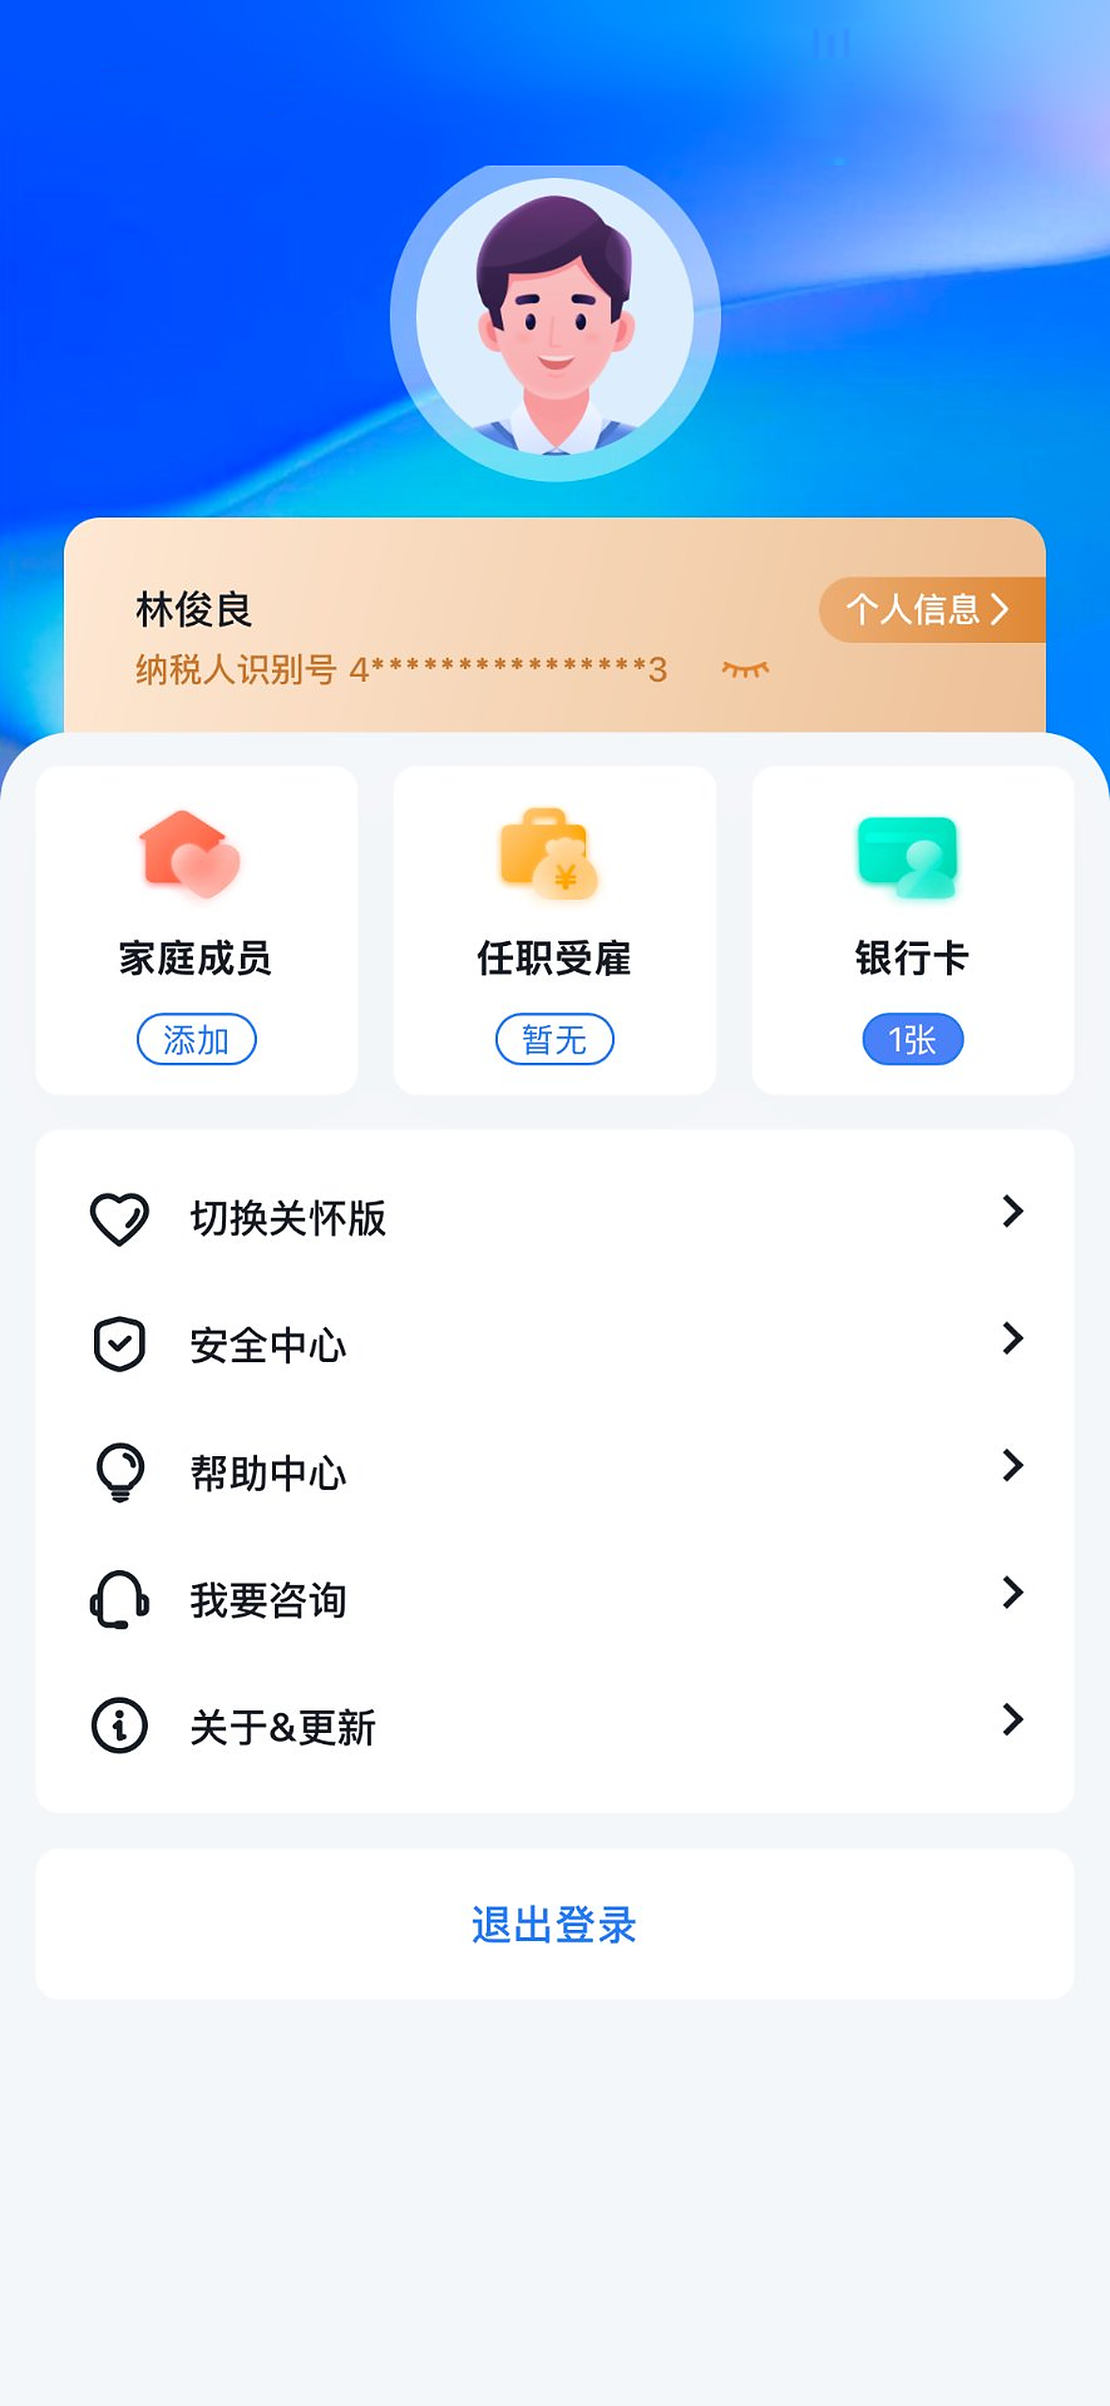
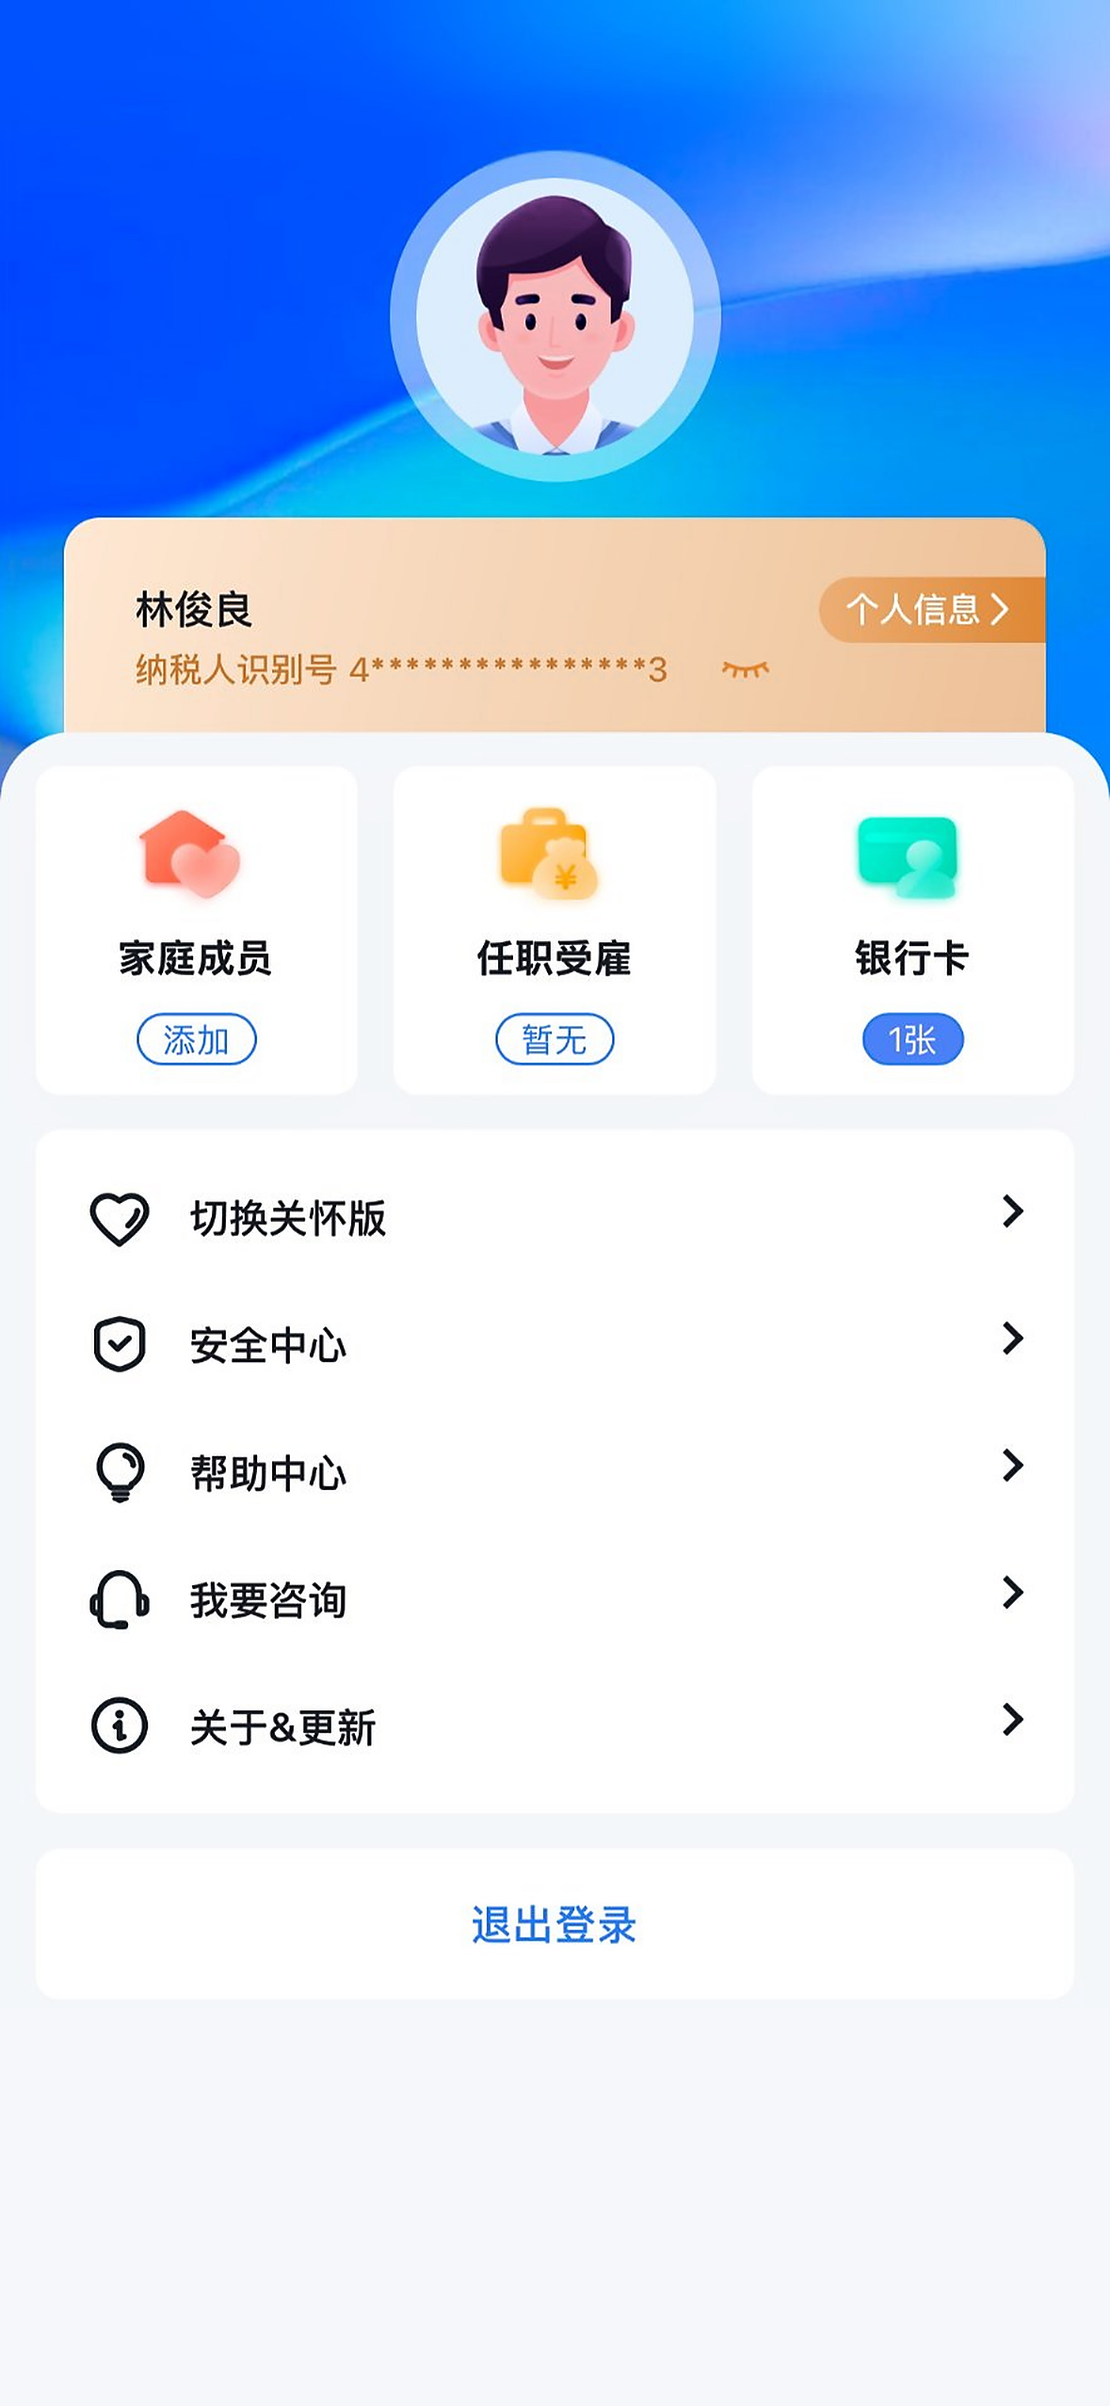
v23：我的页换干净高清稿并增强文字清晰度、加载菊花放大至实机尺寸

Changed region(s): [[0.458, 0.0618, 0.5496, 0.1236]]

diff --git a/web/_shot.html b/web/_shot.html
@@ -14,7 +14,7 @@
 <link rel="manifest" href="manifest.json?sharecode=DZ7JZKJUMR" data-page-node-id="qVHdPYcb3nDVqaHoFGbyMZ">
 <link rel="apple-touch-icon" href="icons/apple-touch-icon.png" data-page-node-id="H1zr3IHXU3fX5LJEBPAIA0">
 <link rel="icon" href="icons/icon-192.png" data-page-node-id="Qyi06ihSviR0xbFibIt79C">
-<link rel="stylesheet" href="css/app.css?v=22" data-page-node-id="E719DdzVqBfIQ6nXnI7Rcw">
+<link rel="stylesheet" href="css/app.css?v=23" data-page-node-id="E719DdzVqBfIQ6nXnI7Rcw">
 <!-- iOS 只在**首次绘制**时给状态栏采样一次颜色，所以目标页必须在第一帧就已经是
      「白顶栏 / 蓝顶栏」的正确样子：这里在解析 body 之前就把页面类型写到 html 上，
      由 CSS 直接把对应页面显示出来、并给取色条上好颜色。 -->
@@ -95,7 +95,7 @@
     </div>
 
     <div class="notice" data-page-node-id="FwEFZBPdAFjInhUNxmZaML">
-      <img class="notice__icon" src="img/bell.png?v=22" alt="" data-page-node-id="5hYF3cCJRl2AT7REEmYu4v">
+      <img class="notice__icon" src="img/bell.png?v=23" alt="" data-page-node-id="5hYF3cCJRl2AT7REEmYu4v">
       <div class="notice__vp" data-page-node-id="QKrBV23QaF77avaBx5qWy7">
         <div class="notice__track" data-page-node-id="H2gOkWRQvOcF2RGvDKNjjo">
           <span class="notice__text" data-page-node-id="TBJNfcBTqHKtWQK2RxSObs">国家税务总局关于2025年度个人所得税综合所得汇算清缴事项的公告</span>
@@ -105,43 +105,43 @@
     </div>
 
     <!-- 该卡片按原图整块贴图，保证版式与原 App 完全一致 -->
-    <img class="hero" src="img/hero-card.png?v=22" width="830" height="460"
+    <img class="hero" src="img/hero-card.png?v=23" width="830" height="460"
          alt="2025综合所得年度汇算，您已提交申报并完成退税" data-page-node-id="MgvcxjvtYyfXBS20oCpEf1">
 
     <h2 class="section-title" data-page-node-id="xayUv806njmz7VPzcluTz5">重点服务推荐</h2>
 
     <!-- 同上：整块贴图 -->
-    <img class="special" src="img/special-card.png?v=22" width="830" height="371"
+    <img class="special" src="img/special-card.png?v=23" width="830" height="371"
          alt="专项附加扣除，您已填报 1 项专项附加扣除" data-page-node-id="CWDwSfP1Z1mJsCaH2j8XGp">
 
     <div class="services" data-page-node-id="OpZQbv5uwaSf8vWzBE76D1">
       <a class="service" data-page-node-id="xmn6RIPsC5Jtj1ulrR1bMC">
-        <img class="service__icon" src="img/icon-svc1.png?v=22" alt="" data-page-node-id="FoRV1CUGGwwYYZU0pYDwak">
+        <img class="service__icon" src="img/icon-svc1.png?v=23" alt="" data-page-node-id="FoRV1CUGGwwYYZU0pYDwak">
         <span class="service__title" data-page-node-id="fk7RDwmLy9zQP2REAeLWzB">综合所得年度汇算</span>
         <span class="service__desc" data-page-node-id="gjbucS4OnAAo2jipI9mz4P">申报与查询综合所得年度汇算</span>
         <span class="service__pill service__pill--blue" data-page-node-id="1JK0P45wMzeKMURTjlDlTK">去申报</span>
       </a>
       <a class="service" data-nav="query" data-loading data-page-node-id="HFje0OxGmE0VHFAG2AJ2CE">
-        <img class="service__icon" src="img/icon-svc2.png?v=22" alt="" data-page-node-id="OqfElh95WxCpwRDzb4k7wf">
+        <img class="service__icon" src="img/icon-svc2.png?v=23" alt="" data-page-node-id="OqfElh95WxCpwRDzb4k7wf">
         <span class="service__title" data-page-node-id="1GrmQChQmNiZyk7qEuxphm">收入纳税明细</span>
         <span class="service__desc" data-page-node-id="M5gdLBAuU0CGFKZI2naMBE">查看个人所得税纳税明细</span>
         <span class="service__pill service__pill--purple" data-page-node-id="WkuEbP9DfJCjNDv7EPA2jv">去查询</span>
       </a>
       <a class="service" data-page-node-id="AyIEO3nz9isQXWvGClnLIc">
-        <img class="service__icon" src="img/icon-svc3.png?v=22" alt="" data-page-node-id="m9ECsiNm841WPBsKqBgOMS">
+        <img class="service__icon" src="img/icon-svc3.png?v=23" alt="" data-page-node-id="m9ECsiNm841WPBsKqBgOMS">
         <span class="service__title" data-page-node-id="OFEUtvG8UKKSjpb4fPfXCE">纳税记录开具</span>
         <span class="service__desc" data-page-node-id="wxj4KTfpBqDAZbVSMaFxUi">生成或查看纳税记录</span>
         <span class="service__pill service__pill--green" data-page-node-id="fOhBYScccA7HIy6kZIvq3w">去开具</span>
       </a>
       <a class="service" data-page-node-id="eIZBlDmzyHrh7S6MJqrRqk">
-        <img class="service__icon" src="img/icon-svc4.png?v=22" alt="" data-page-node-id="XYAP0EpoxHbKqPlBasZQ4Z">
+        <img class="service__icon" src="img/icon-svc4.png?v=23" alt="" data-page-node-id="XYAP0EpoxHbKqPlBasZQ4Z">
         <span class="service__title" data-page-node-id="umjL3GlSABr1F4NSx1DOYs">更多功能</span>
         <span class="service__desc" data-page-node-id="bIgbVrtJjLDeJm7O5GKXR5">设置在首页展示的常用功能入口</span>
         <span class="service__pill service__pill--blue" data-page-node-id="Ef1ftDMDhRClqBK4vkNScR">去使用</span>
       </a>
     </div>
 
-    <img class="banner" src="img/banner.png?v=22" width="1107" height="288"
+    <img class="banner" src="img/banner.png?v=23" width="1107" height="288"
          alt="经营所得申报功能介绍" data-page-node-id="lX91esYl9i4GRDU87TMlCf">
   </div>
 
@@ -152,7 +152,7 @@
 
 <!-- ===================== 我的（贴图 + 原生状态栏/底部导航） ===================== -->
 <section class="page page--profile" id="page-profile" data-page-node-id="fzaKG5u6Iij2l0AuF7wFFU">
-  <img class="profile-page" src="img/profile-page.png?v=22" alt="我的" data-page-node-id="JBOuPE56AwFQIxtb5JrCKU">
+  <img class="profile-page" src="img/profile-page.png?v=23" alt="我的" data-page-node-id="JBOuPE56AwFQIxtb5JrCKU">
 </section>
 
 <!-- ===================== 收入纳税明细 · 查询 ===================== -->
@@ -275,6 +275,6 @@
   </a>
 </nav>
 
-<script src="js/main.js?v=22"></script>
+<script src="js/main.js?v=23"></script>
 </body>
 </html>

diff --git a/web/index.html b/web/index.html
@@ -14,7 +14,7 @@
 <link rel="manifest" href="manifest.json?sharecode=DZ7JZKJUMR" data-page-node-id="qVHdPYcb3nDVqaHoFGbyMZ">
 <link rel="apple-touch-icon" href="icons/apple-touch-icon.png" data-page-node-id="H1zr3IHXU3fX5LJEBPAIA0">
 <link rel="icon" href="icons/icon-192.png" data-page-node-id="Qyi06ihSviR0xbFibIt79C">
-<link rel="stylesheet" href="css/app.css?v=22" data-page-node-id="E719DdzVqBfIQ6nXnI7Rcw">
+<link rel="stylesheet" href="css/app.css?v=23" data-page-node-id="E719DdzVqBfIQ6nXnI7Rcw">
 <!-- iOS 只在**首次绘制**时给状态栏采样一次颜色，所以目标页必须在第一帧就已经是
      「白顶栏 / 蓝顶栏」的正确样子：这里在解析 body 之前就把页面类型写到 html 上，
      由 CSS 直接把对应页面显示出来、并给取色条上好颜色。 -->
@@ -55,7 +55,7 @@
     </div>
 
     <div class="notice" data-page-node-id="FwEFZBPdAFjInhUNxmZaML">
-      <img class="notice__icon" src="img/bell.png?v=22" alt="" data-page-node-id="5hYF3cCJRl2AT7REEmYu4v">
+      <img class="notice__icon" src="img/bell.png?v=23" alt="" data-page-node-id="5hYF3cCJRl2AT7REEmYu4v">
       <div class="notice__vp" data-page-node-id="QKrBV23QaF77avaBx5qWy7">
         <div class="notice__track" data-page-node-id="H2gOkWRQvOcF2RGvDKNjjo">
           <span class="notice__text" data-page-node-id="TBJNfcBTqHKtWQK2RxSObs">国家税务总局关于2025年度个人所得税综合所得汇算清缴事项的公告</span>
@@ -65,43 +65,43 @@
     </div>
 
     <!-- 该卡片按原图整块贴图，保证版式与原 App 完全一致 -->
-    <img class="hero" src="img/hero-card.png?v=22" width="830" height="460"
+    <img class="hero" src="img/hero-card.png?v=23" width="830" height="460"
          alt="2025综合所得年度汇算，您已提交申报并完成退税" data-page-node-id="MgvcxjvtYyfXBS20oCpEf1">
 
     <h2 class="section-title" data-page-node-id="xayUv806njmz7VPzcluTz5">重点服务推荐</h2>
 
     <!-- 同上：整块贴图 -->
-    <img class="special" src="img/special-card.png?v=22" width="830" height="371"
+    <img class="special" src="img/special-card.png?v=23" width="830" height="371"
          alt="专项附加扣除，您已填报 1 项专项附加扣除" data-page-node-id="CWDwSfP1Z1mJsCaH2j8XGp">
 
     <div class="services" data-page-node-id="OpZQbv5uwaSf8vWzBE76D1">
       <a class="service" data-page-node-id="xmn6RIPsC5Jtj1ulrR1bMC">
-        <img class="service__icon" src="img/icon-svc1.png?v=22" alt="" data-page-node-id="FoRV1CUGGwwYYZU0pYDwak">
+        <img class="service__icon" src="img/icon-svc1.png?v=23" alt="" data-page-node-id="FoRV1CUGGwwYYZU0pYDwak">
         <span class="service__title" data-page-node-id="fk7RDwmLy9zQP2REAeLWzB">综合所得年度汇算</span>
         <span class="service__desc" data-page-node-id="gjbucS4OnAAo2jipI9mz4P">申报与查询综合所得年度汇算</span>
         <span class="service__pill service__pill--blue" data-page-node-id="1JK0P45wMzeKMURTjlDlTK">去申报</span>
       </a>
       <a class="service" data-nav="query" data-loading data-page-node-id="HFje0OxGmE0VHFAG2AJ2CE">
-        <img class="service__icon" src="img/icon-svc2.png?v=22" alt="" data-page-node-id="OqfElh95WxCpwRDzb4k7wf">
+        <img class="service__icon" src="img/icon-svc2.png?v=23" alt="" data-page-node-id="OqfElh95WxCpwRDzb4k7wf">
         <span class="service__title" data-page-node-id="1GrmQChQmNiZyk7qEuxphm">收入纳税明细</span>
         <span class="service__desc" data-page-node-id="M5gdLBAuU0CGFKZI2naMBE">查看个人所得税纳税明细</span>
         <span class="service__pill service__pill--purple" data-page-node-id="WkuEbP9DfJCjNDv7EPA2jv">去查询</span>
       </a>
       <a class="service" data-page-node-id="AyIEO3nz9isQXWvGClnLIc">
-        <img class="service__icon" src="img/icon-svc3.png?v=22" alt="" data-page-node-id="m9ECsiNm841WPBsKqBgOMS">
+        <img class="service__icon" src="img/icon-svc3.png?v=23" alt="" data-page-node-id="m9ECsiNm841WPBsKqBgOMS">
         <span class="service__title" data-page-node-id="OFEUtvG8UKKSjpb4fPfXCE">纳税记录开具</span>
         <span class="service__desc" data-page-node-id="wxj4KTfpBqDAZbVSMaFxUi">生成或查看纳税记录</span>
         <span class="service__pill service__pill--green" data-page-node-id="fOhBYScccA7HIy6kZIvq3w">去开具</span>
       </a>
       <a class="service" data-page-node-id="eIZBlDmzyHrh7S6MJqrRqk">
-        <img class="service__icon" src="img/icon-svc4.png?v=22" alt="" data-page-node-id="XYAP0EpoxHbKqPlBasZQ4Z">
+        <img class="service__icon" src="img/icon-svc4.png?v=23" alt="" data-page-node-id="XYAP0EpoxHbKqPlBasZQ4Z">
         <span class="service__title" data-page-node-id="umjL3GlSABr1F4NSx1DOYs">更多功能</span>
         <span class="service__desc" data-page-node-id="bIgbVrtJjLDeJm7O5GKXR5">设置在首页展示的常用功能入口</span>
         <span class="service__pill service__pill--blue" data-page-node-id="Ef1ftDMDhRClqBK4vkNScR">去使用</span>
       </a>
     </div>
 
-    <img class="banner" src="img/banner.png?v=22" width="1107" height="288"
+    <img class="banner" src="img/banner.png?v=23" width="1107" height="288"
          alt="经营所得申报功能介绍" data-page-node-id="lX91esYl9i4GRDU87TMlCf">
   </div>
 
@@ -112,7 +112,7 @@
 
 <!-- ===================== 我的（贴图 + 原生状态栏/底部导航） ===================== -->
 <section class="page page--profile" id="page-profile" data-page-node-id="fzaKG5u6Iij2l0AuF7wFFU">
-  <img class="profile-page" src="img/profile-page.png?v=22" alt="我的" data-page-node-id="JBOuPE56AwFQIxtb5JrCKU">
+  <img class="profile-page" src="img/profile-page.png?v=23" alt="我的" data-page-node-id="JBOuPE56AwFQIxtb5JrCKU">
 </section>
 
 <!-- ===================== 收入纳税明细 · 查询 ===================== -->
@@ -235,6 +235,6 @@
   </a>
 </nav>
 
-<script src="js/main.js?v=22"></script>
+<script src="js/main.js?v=23"></script>
 </body>
 </html>

diff --git a/web/css/app.css b/web/css/app.css
@@ -83,8 +83,8 @@ button {
   html[data-page="profile"] .sb-tint {
     background-color: #1C81FE;
     background-image: linear-gradient(90deg,
-      #0052FE 0%, #0052FE 7%, #0153FF 17%, #0057FF 27%, #005BFE 37%,
-      #0166FF 48%, #0177FF 58%, #0086FF 68%, #008FFE 78%, #0896FE 88%, #2E9CFE 100%);
+      #0051FE 0%, #0052FE 8%, #0053FE 18%, #0058FE 28%, #0067FE 38%,
+      #007BFE 48%, #008AFE 58%, #0B95FE 68%, #3AA3FE 78%, #6AB4FD 88%, #93C0FE 100%);
   }
 
   /* 子页整页/切页时，状态栏区域就是白顶栏 */
@@ -727,8 +727,10 @@ html[data-page="result"] .tabbar { display: none; }
 
 
 /* ============ 加载状态（黑框 + iOS 菊花） ============
-   尺寸/配色取自原版截图：129.7 x 108.7pt、圆角 5、rgba(0,0,0,.5)、
-   菊花直径约 27pt，白色 12 辐条、圆头。页面不再压暗（压暗会闪烁）。 */
+   尺寸/配色取自原版截图：129.7 x 108.7pt、圆角 5、rgba(0,0,0,.5)。
+   菊花：SVG viewBox 36，辐条外沿半径 13.5（= 元素尺寸的 75%），
+   所以 34px 元素画出来的实际可见直径约 25pt，与实机截图里的 24pt 一致。
+   页面不再压暗（压暗会闪烁）。 */
 .loading {
   position: absolute;
   inset: 0;
@@ -750,8 +752,8 @@ html[data-page="result"] .tabbar { display: none; }
 
 .spinner {
   display: block;
-  width: 27px;
-  height: 27px;
+  width: 34px;
+  height: 34px;
   animation: spinnerSpin 1s steps(12) infinite;
 }
 

diff --git a/web/sw.js b/web/sw.js
@@ -1,22 +1,22 @@
-const CACHE = 'tax-ui-v22';
+const CACHE = 'tax-ui-v23';
 
 const ASSETS = [
   './',
   './index.html',
-  './css/app.css?v=22',
-  './js/main.js?v=22',
+  './css/app.css?v=23',
+  './js/main.js?v=23',
   './manifest.json',
-  './img/hero-card.png?v=22',
-  './img/special-card.png?v=22',
-  './img/banner.png?v=22',
-  './img/bell.png?v=22',
+  './img/hero-card.png?v=23',
+  './img/special-card.png?v=23',
+  './img/banner.png?v=23',
+  './img/bell.png?v=23',
   './img/avatar.png',
-  './img/profile-page.png?v=22',
-  './img/icon-qmark.png?v=22',
-  './img/icon-svc1.png?v=22',
-  './img/icon-svc2.png?v=22',
-  './img/icon-svc3.png?v=22',
-  './img/icon-svc4.png?v=22',
+  './img/profile-page.png?v=23',
+  './img/icon-qmark.png?v=23',
+  './img/icon-svc1.png?v=23',
+  './img/icon-svc2.png?v=23',
+  './img/icon-svc3.png?v=23',
+  './img/icon-svc4.png?v=23',
   './img/icon-family.png',
   './img/icon-job.png',
   './img/icon-bank.png',

diff --git a/web/js/main.js b/web/js/main.js
@@ -69,8 +69,8 @@ function setRoot(name) {
 const SPINNER_SVG = (() => {
   let spokes = '';
   for (let i = 0; i < 12; i++) {
-    const opacity = (1 - i * 0.075).toFixed(3);
-    spokes += `<rect x="16.3" y="4.5" width="3.4" height="8.5" rx="1.7" fill="#fff" `
+    const opacity = (1 - i * 0.06).toFixed(3);
+    spokes += `<rect x="16.8" y="4.5" width="2.4" height="8.5" rx="1.2" fill="#fff" `
       + `opacity="${opacity}" transform="rotate(${i * 30} 18 18)"/>`;
   }
   return `<svg viewBox="0 0 36 36"><g>${spokes}</g></svg>`;

diff --git a/tools/make_profile_v4.py b/tools/make_profile_v4.py
@@ -1,0 +1,57 @@
+# -*- coding: utf-8 -*-
+"""「我的」页整屏贴图 v5（iPhone 15 Pro 3x = 1179x2556）。
+
+来源：用户给的干净整屏设计稿 885x1920（无状态栏文字、无假底栏），
+宽高比 885/1920 = 0.4609，iPhone 15 Pro 1179/2556 = 0.4613，等比放大即可铺满。
+
+文字清晰度：源图是 JPG，直接 1.33x 放大后笔画发虚。
+  1) 中段 y=140..1600 与上一张同内容、不同压缩的截图做 50% 叠加 —— 两次 JPG
+     噪声互不相关，叠加后噪点明显下降（顶/底不能叠：旧图那两段有状态栏文字和假底栏）。
+  2) Lanczos 放大到 1179x2556。
+  3) 「墨色加深」：只对近中性、偏暗的像素做 S 曲线压深，把抗锯齿灰边往黑推，
+     笔画变实；蓝色渐变 / 橙色卡片 / 彩色图标饱和度高，自动被排除。
+  4) 轻度 USM（r=0.9 / 95%）提笔画边缘，不产生白光晕。
+
+用法：python tools/make_profile_v4.py
+"""
+import os
+import numpy as np
+from PIL import Image, ImageFilter
+
+NEW = r"C:\Users\star\.workbuddy\clipboard-images\clipboard-2026-11-13T04-31-30-040Z-1f581672.jpg"
+OLD = r"C:\Users\star\.workbuddy\clipboard-images\clipboard-2026-11-13T03-14-34-028Z-9260706a.jpg"
+OUT = "web/img/profile-page.png"
+SIZE = (1179, 2556)          # iPhone 15 Pro @3x
+BLEND_TOP, BLEND_BOT = 140, 1600
+FEATHER = 12
+
+new = np.asarray(Image.open(NEW).convert("RGB"), dtype=np.float64)
+old = np.asarray(Image.open(OLD).convert("RGB"), dtype=np.float64)
+assert new.shape == (1920, 885, 3), new.shape
+assert old.shape == new.shape, old.shape
+
+# ---- 1) 中段双图叠加降噪，两端羽化 ----
+w = np.zeros((new.shape[0], 1, 1), dtype=np.float64)
+w[BLEND_TOP:BLEND_BOT] = 1.0
+for i in range(FEATHER):
+    t = (i + 1) / FEATHER
+    w[BLEND_TOP - FEATHER + i] = t
+    w[BLEND_BOT + i] = 1.0 - t
+src = new * (1 - 0.5 * w) + old * (0.5 * w)
+
+# ---- 2) 等比放大 ----
+out = Image.fromarray(np.clip(src, 0, 255).astype(np.uint8), "RGB")
+out = out.resize(SIZE, Image.LANCZOS)
+
+# ---- 3) 墨色加深（只作用于黑字 / 深灰线条） ----
+a = np.asarray(out, dtype=np.float64)
+L = a.mean(axis=2)
+sat = a.max(axis=2) - a.min(axis=2)
+m = np.clip((225 - L) / 190, 0, 1) * np.clip((70 - sat) / 50, 0, 1)
+a = np.clip(a - (4 * 22 * m * (1 - m))[:, :, None], 0, 255)
+out = Image.fromarray(a.astype(np.uint8), "RGB")
+
+# ---- 4) 轻度锐化 ----
+out = out.filter(ImageFilter.UnsharpMask(radius=0.9, percent=95, threshold=3))
+out.save(OUT, optimize=True)
+print(OUT, out.size, "%.0f KB" % (os.path.getsize(OUT) / 1024))
